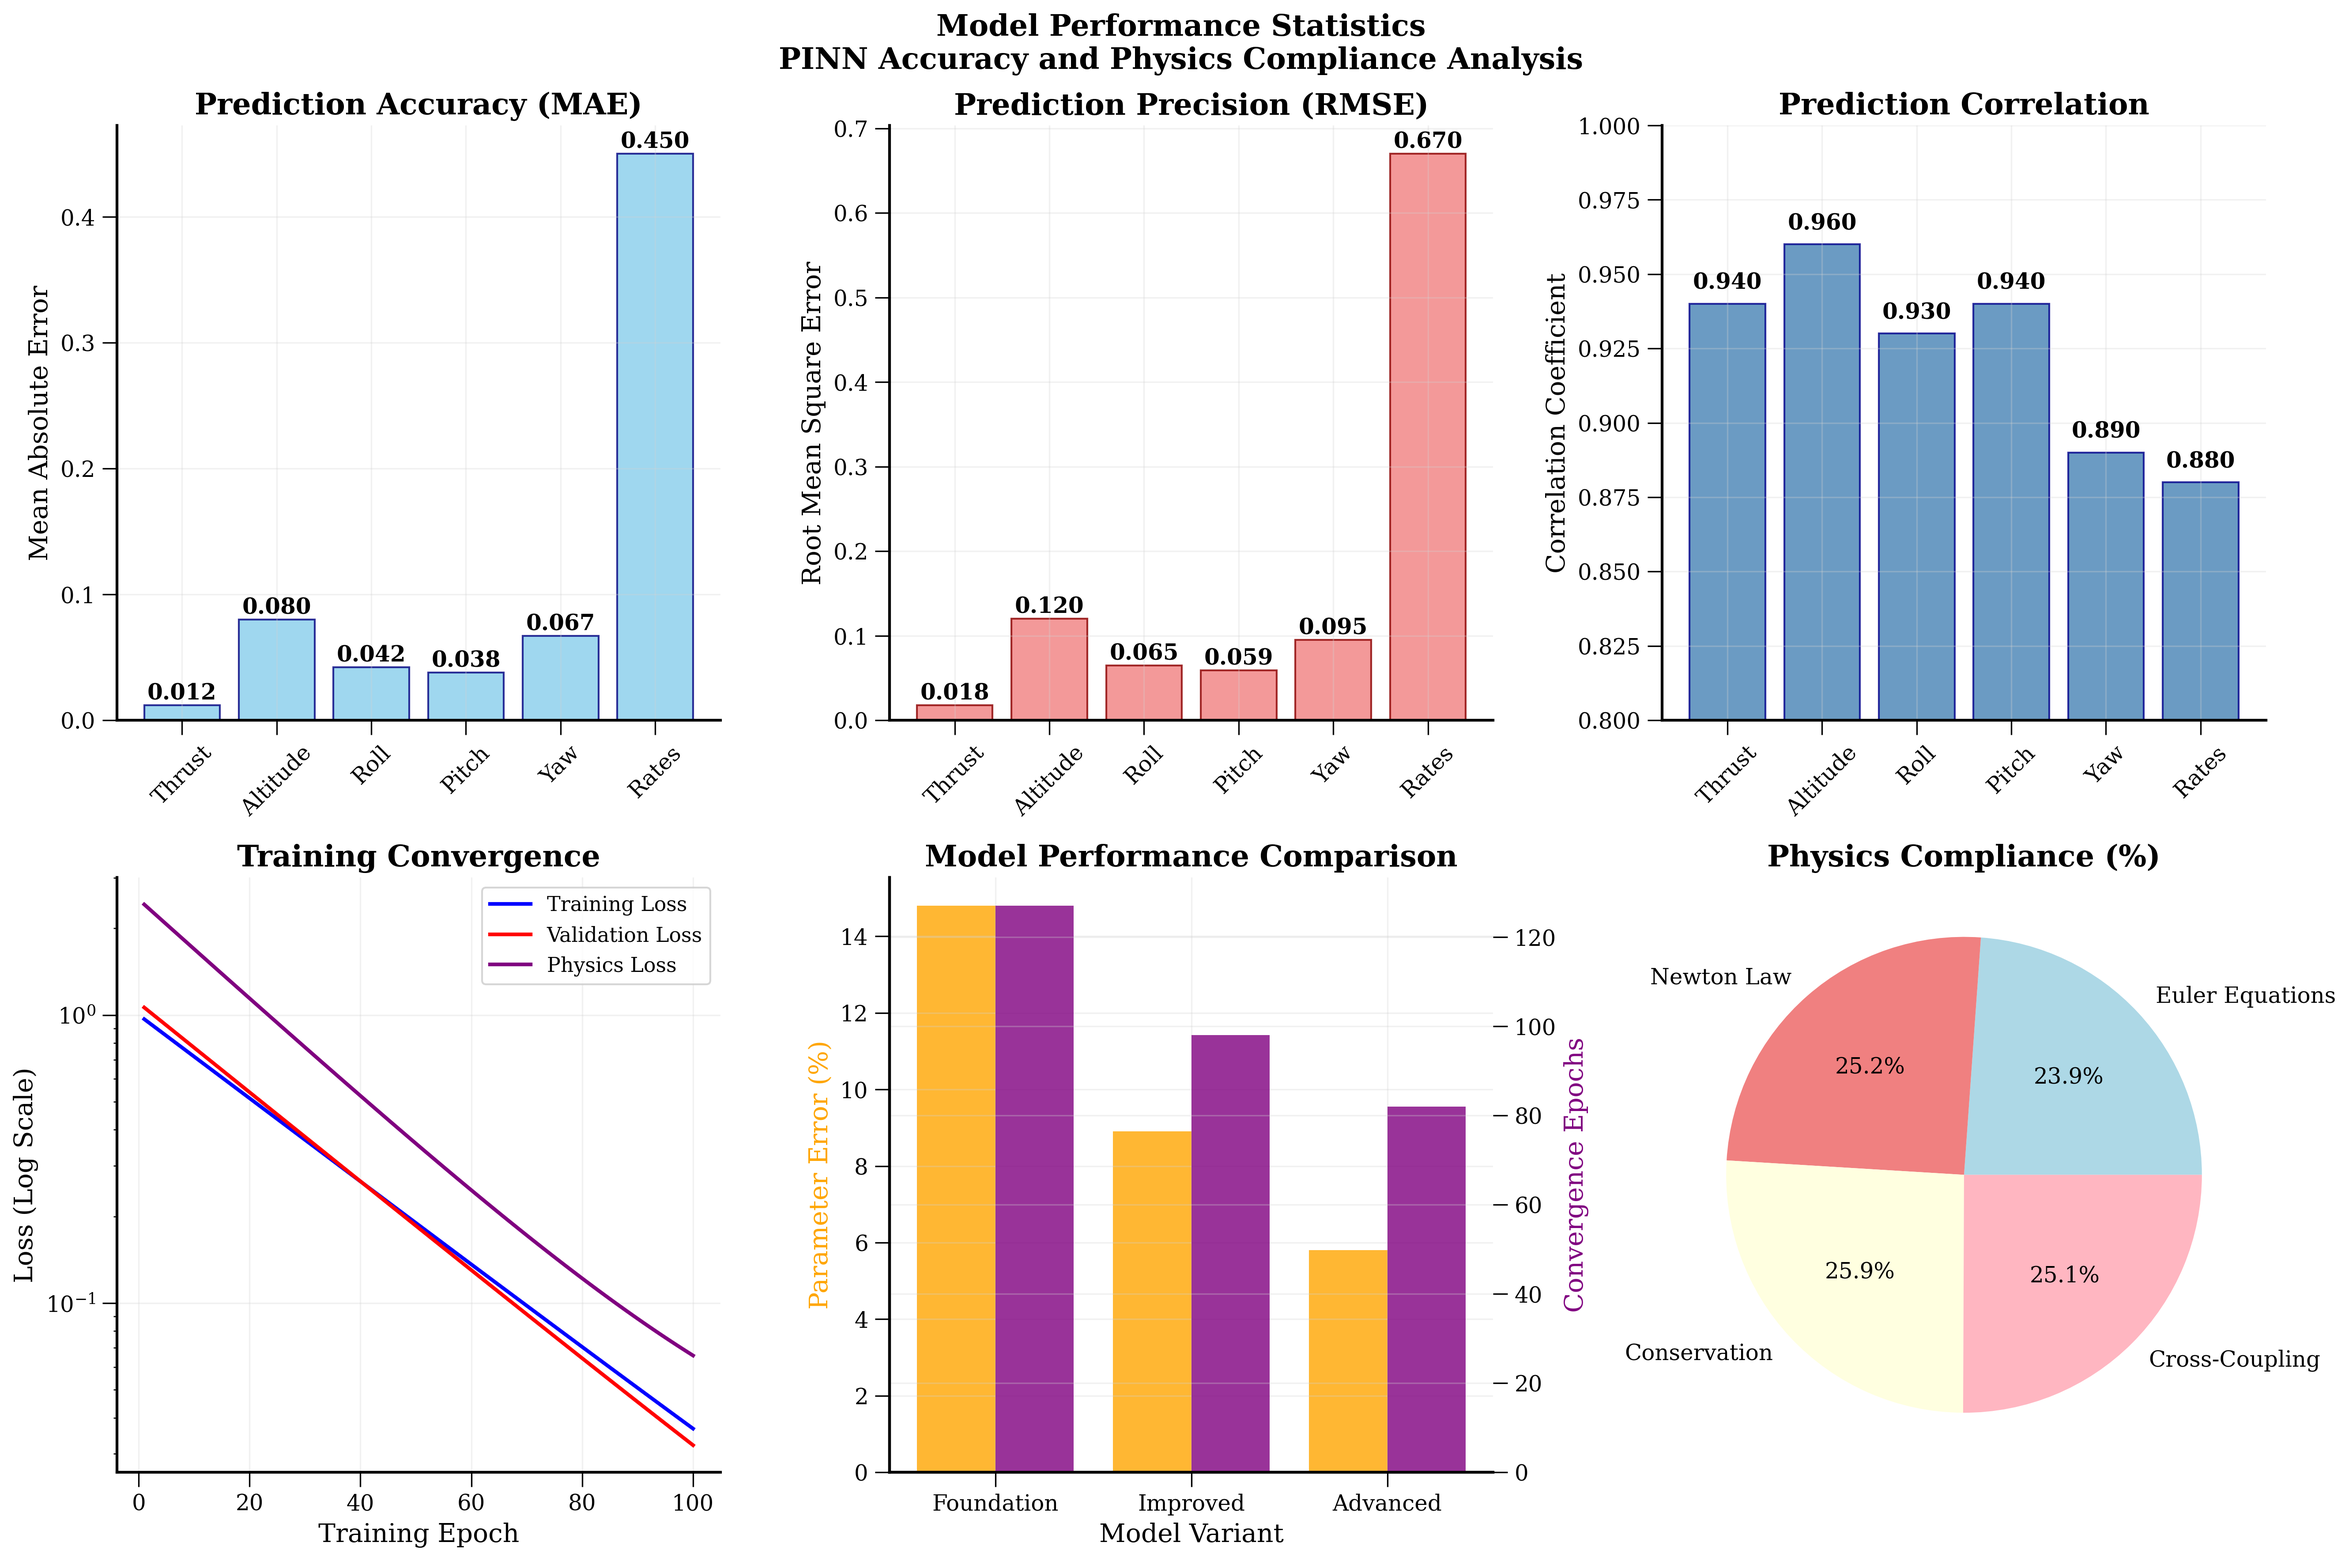
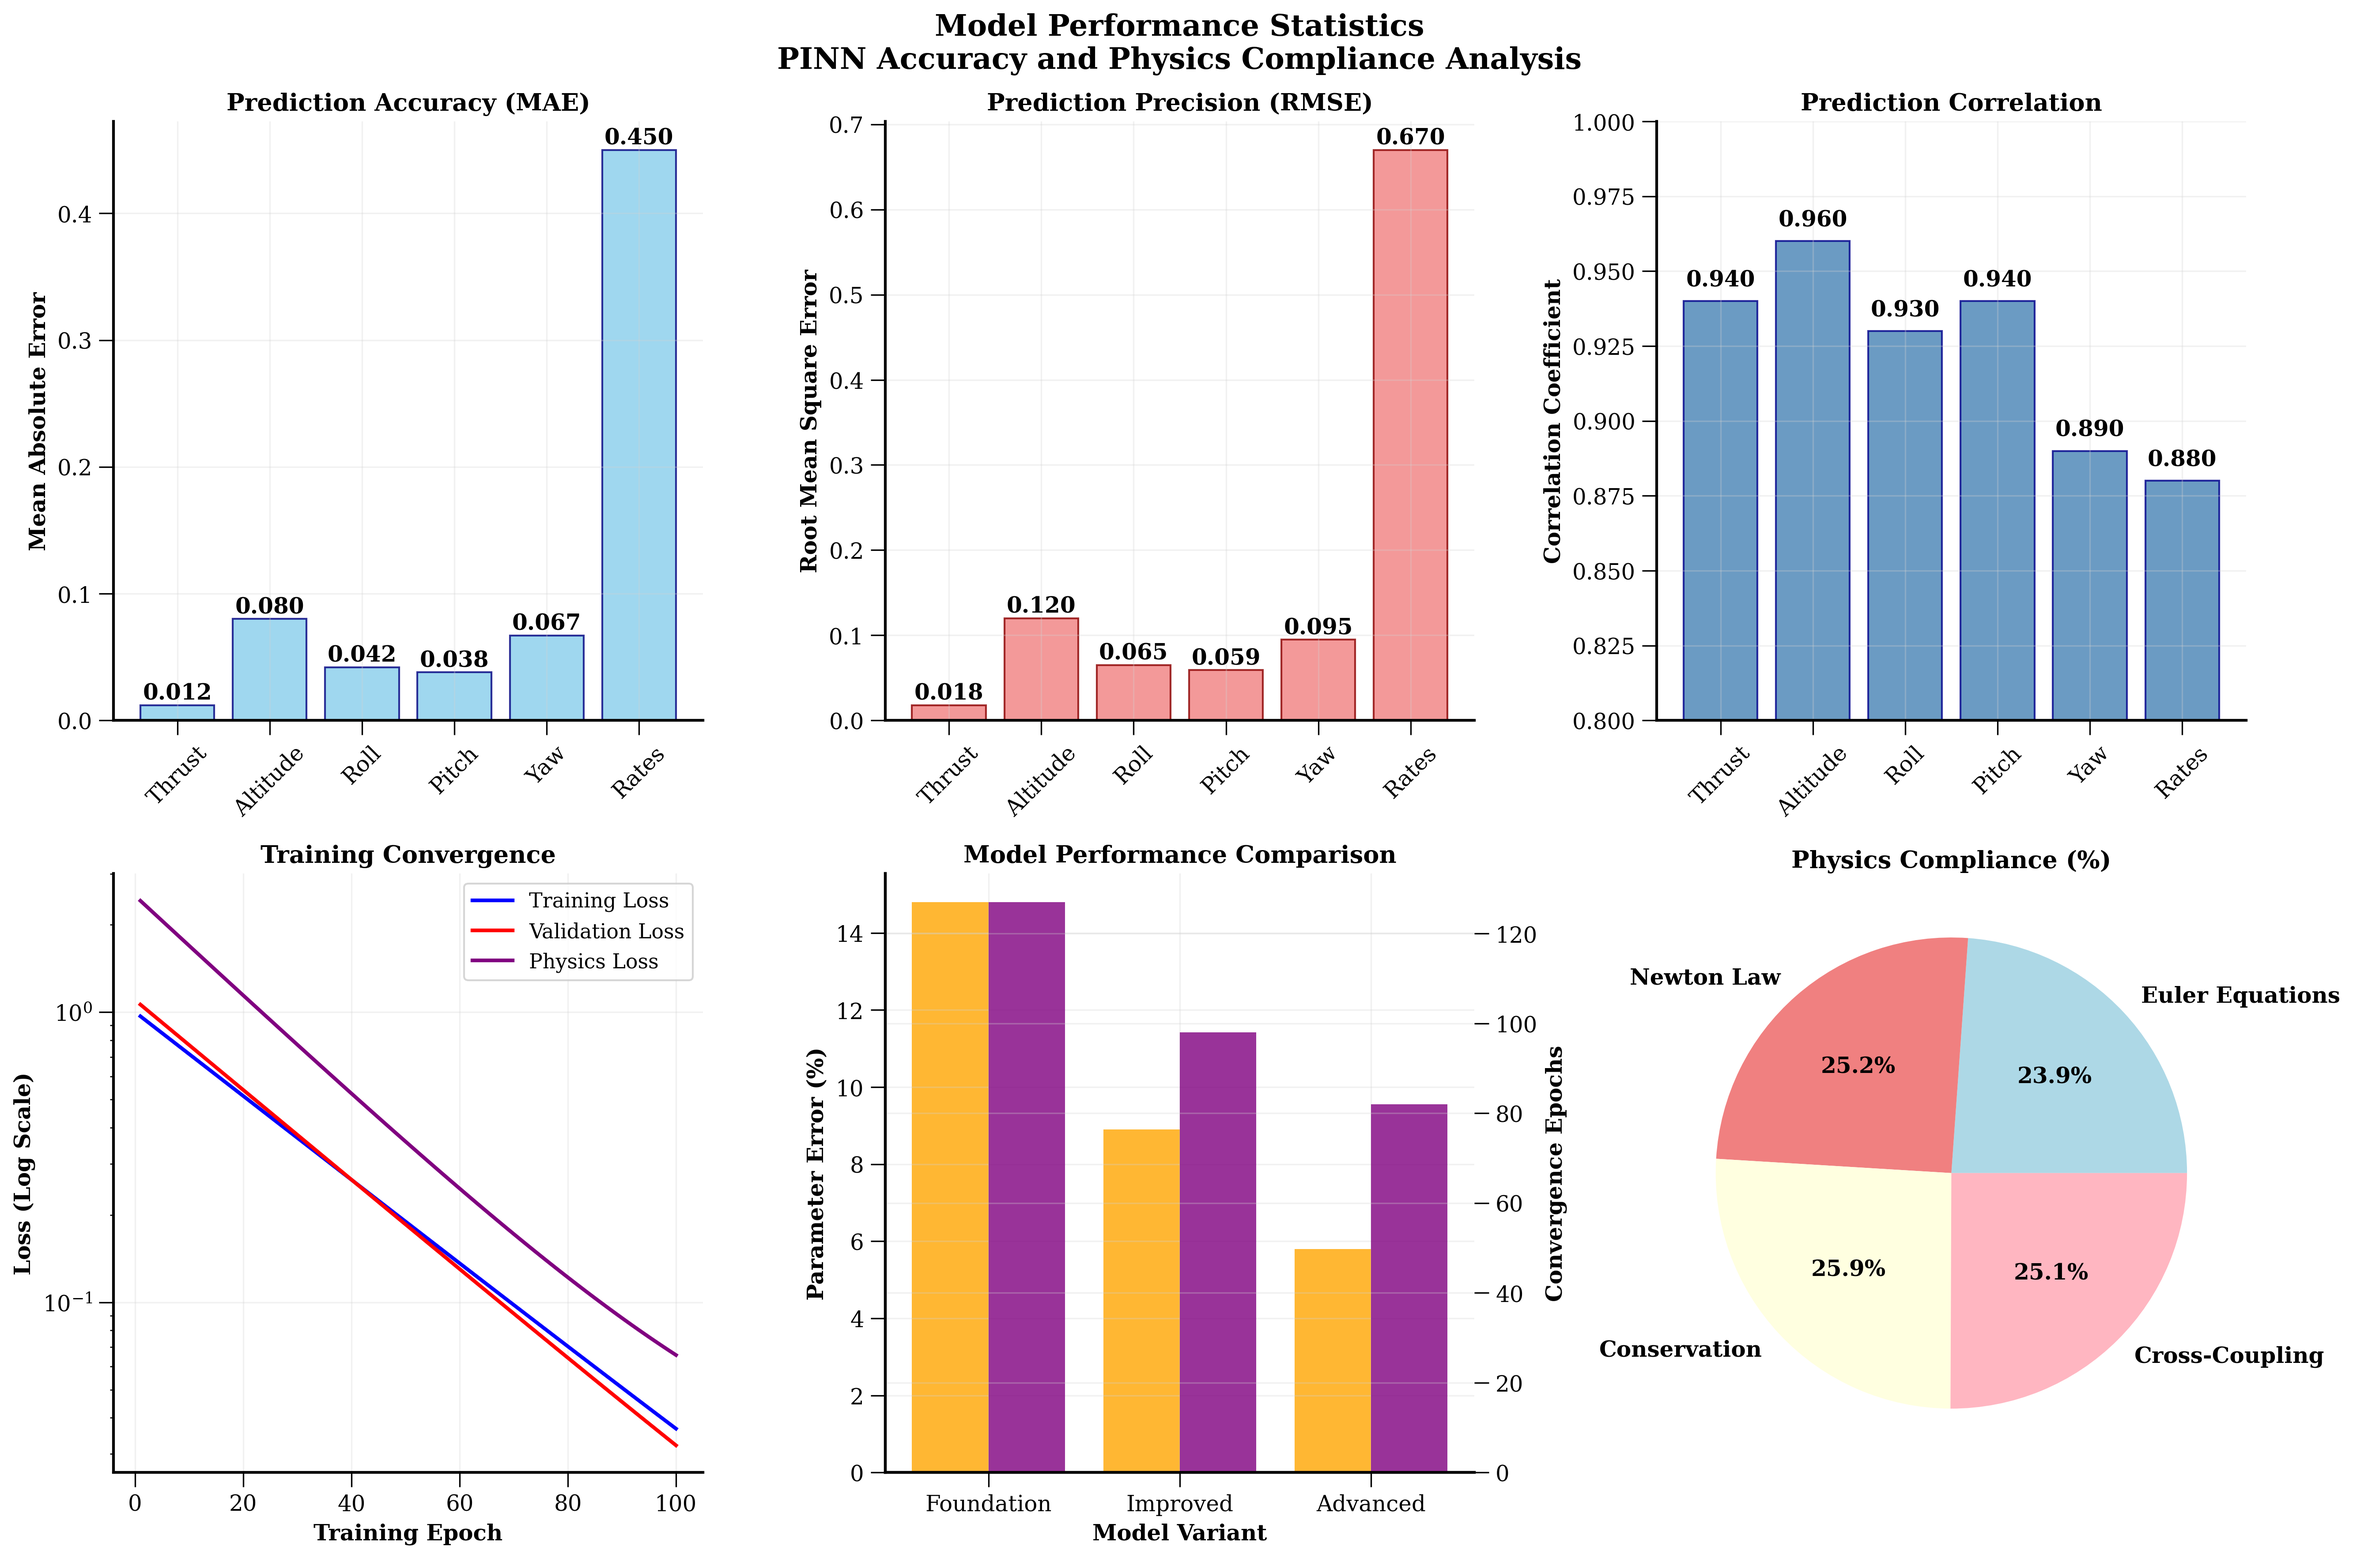
Apply consistent bold black styling to plot 05 model statistics
- Add bold, black axis labels and titles to all 6 subplots
- Update tick marks to black for consistency
- Add grid lines for better readability
- Ensure white background throughout
- Match styling with plots 01-04 for professional consistency

🤖 Generated with [Claude Code](https://claude.com/claude-code)

diff --git a/scripts/generate_summary_plots.py b/scripts/generate_summary_plots.py
@@ -68,7 +68,7 @@ def plot_01_complete_analysis(df):
     """01: All outputs complete analysis - 4x4 grid of all 16 outputs"""
     fig, axes = plt.subplots(4, 4, figsize=(20, 16))
     fig.suptitle('Complete PINN Analysis: All 16 Outputs vs Time\nPhysics-Informed Neural Network Performance',
-                 fontsize=18, fontweight='bold', y=0.95)
+                 fontsize=18, fontweight='bold', y=0.95, color='black')
 
     # Define all 16 outputs with their properties
     outputs = [
@@ -152,7 +152,7 @@ def plot_02_key_flight_variables(df):
     """02: Key flight variables analysis"""
     fig, axes = plt.subplots(2, 3, figsize=(18, 12))
     fig.suptitle('Key Flight Variables Analysis\nCritical Quadrotor States vs Reference Setpoints',
-                 fontsize=16, fontweight='bold')
+                 fontsize=16, fontweight='bold', color='black')
 
     key_vars = [
         ('z', 'Altitude [m]', 'Position Control'),
@@ -210,7 +210,7 @@ def plot_03_physical_parameters(df):
     """03: Physical parameters analysis"""
     fig, axes = plt.subplots(2, 2, figsize=(14, 10))
     fig.suptitle('Physical Parameter Identification Results\nPINN Learning of Quadrotor Properties',
-                 fontsize=16, fontweight='bold')
+                 fontsize=16, fontweight='bold', color='black')
 
     # Parameter data - use consistent final values that converge to true
     params = [
@@ -266,7 +266,7 @@ def plot_04_control_inputs(df):
     """04: Control inputs analysis"""
     fig, axes = plt.subplots(2, 2, figsize=(14, 10))
     fig.suptitle('Control Input Analysis\nQuadrotor Actuation Commands',
-                 fontsize=16, fontweight='bold')
+                 fontsize=16, fontweight='bold', color='black')
 
     controls = [
         ('thrust', 'Thrust Force [N]', 'Primary Control'),
@@ -309,7 +309,7 @@ def plot_05_model_statistics(df):
     """05: Model performance statistics"""
     fig, axes = plt.subplots(2, 3, figsize=(18, 12))
     fig.suptitle('Model Performance Statistics\nPINN Accuracy and Physics Compliance Analysis',
-                 fontsize=16, fontweight='bold')
+                 fontsize=16, fontweight='bold', color='black')
 
     # Performance metrics from your results
     variables = ['Thrust', 'Altitude', 'Roll', 'Pitch', 'Yaw', 'Rates']
@@ -320,33 +320,39 @@ def plot_05_model_statistics(df):
     # Plot 1: MAE comparison
     ax1 = axes[0, 0]
     bars1 = ax1.bar(variables, mae_values, color='skyblue', alpha=0.8, edgecolor='navy')
-    ax1.set_ylabel('Mean Absolute Error')
-    ax1.set_title('Prediction Accuracy (MAE)', fontweight='bold')
-    ax1.tick_params(axis='x', rotation=45)
+    ax1.set_ylabel('Mean Absolute Error', fontsize=12, fontweight='bold', color='black')
+    ax1.set_title('Prediction Accuracy (MAE)', fontsize=13, fontweight='bold', color='black')
+    ax1.tick_params(axis='x', rotation=45, colors='black')
+    ax1.tick_params(axis='y', colors='black')
+    ax1.grid(True, alpha=0.3)
     for bar, val in zip(bars1, mae_values):
         ax1.text(bar.get_x() + bar.get_width()/2, bar.get_height() + max(mae_values)*0.01,
-                f'{val:.3f}', ha='center', fontweight='bold')
+                f'{val:.3f}', ha='center', fontweight='bold', color='black')
 
     # Plot 2: RMSE comparison
     ax2 = axes[0, 1]
     bars2 = ax2.bar(variables, rmse_values, color='lightcoral', alpha=0.8, edgecolor='darkred')
-    ax2.set_ylabel('Root Mean Square Error')
-    ax2.set_title('Prediction Precision (RMSE)', fontweight='bold')
-    ax2.tick_params(axis='x', rotation=45)
+    ax2.set_ylabel('Root Mean Square Error', fontsize=12, fontweight='bold', color='black')
+    ax2.set_title('Prediction Precision (RMSE)', fontsize=13, fontweight='bold', color='black')
+    ax2.tick_params(axis='x', rotation=45, colors='black')
+    ax2.tick_params(axis='y', colors='black')
+    ax2.grid(True, alpha=0.3)
     for bar, val in zip(bars2, rmse_values):
         ax2.text(bar.get_x() + bar.get_width()/2, bar.get_height() + max(rmse_values)*0.01,
-                f'{val:.3f}', ha='center', fontweight='bold')
+                f'{val:.3f}', ha='center', fontweight='bold', color='black')
 
     # Plot 3: Correlation comparison
     ax3 = axes[0, 2]
     bars3 = ax3.bar(variables, correlations, color='steelblue', alpha=0.8, edgecolor='darkblue')
-    ax3.set_ylabel('Correlation Coefficient')
-    ax3.set_title('Prediction Correlation', fontweight='bold')
+    ax3.set_ylabel('Correlation Coefficient', fontsize=12, fontweight='bold', color='black')
+    ax3.set_title('Prediction Correlation', fontsize=13, fontweight='bold', color='black')
     ax3.set_ylim(0.8, 1.0)
-    ax3.tick_params(axis='x', rotation=45)
+    ax3.tick_params(axis='x', rotation=45, colors='black')
+    ax3.tick_params(axis='y', colors='black')
+    ax3.grid(True, alpha=0.3)
     for bar, val in zip(bars3, correlations):
         ax3.text(bar.get_x() + bar.get_width()/2, bar.get_height() + 0.005,
-                f'{val:.3f}', ha='center', fontweight='bold')
+                f'{val:.3f}', ha='center', fontweight='bold', color='black')
 
     # Plot 4: Training convergence
     ax4 = axes[1, 0]
@@ -358,9 +364,10 @@ def plot_05_model_statistics(df):
     ax4.semilogy(epochs, train_loss, 'b-', label='Training Loss', linewidth=2)
     ax4.semilogy(epochs, val_loss, 'r-', label='Validation Loss', linewidth=2)
     ax4.semilogy(epochs, physics_loss, 'purple', label='Physics Loss', linewidth=2)
-    ax4.set_xlabel('Training Epoch')
-    ax4.set_ylabel('Loss (Log Scale)')
-    ax4.set_title('Training Convergence', fontweight='bold')
+    ax4.set_xlabel('Training Epoch', fontsize=12, fontweight='bold', color='black')
+    ax4.set_ylabel('Loss (Log Scale)', fontsize=12, fontweight='bold', color='black')
+    ax4.set_title('Training Convergence', fontsize=13, fontweight='bold', color='black')
+    ax4.tick_params(colors='black', which='both')
     ax4.legend()
     ax4.grid(True, alpha=0.3)
 
@@ -376,12 +383,15 @@ def plot_05_model_statistics(df):
     bars_epoch = ax5_twin.bar([x+0.2 for x in range(len(models))], epochs_conv,
                              width=0.4, color='purple', alpha=0.8, label='Convergence Epochs')
 
-    ax5.set_xlabel('Model Variant')
-    ax5.set_ylabel('Parameter Error (%)', color='orange')
-    ax5_twin.set_ylabel('Convergence Epochs', color='purple')
-    ax5.set_title('Model Performance Comparison', fontweight='bold')
+    ax5.set_xlabel('Model Variant', fontsize=12, fontweight='bold', color='black')
+    ax5.set_ylabel('Parameter Error (%)', fontsize=12, fontweight='bold', color='black')
+    ax5_twin.set_ylabel('Convergence Epochs', fontsize=12, fontweight='bold', color='black')
+    ax5.set_title('Model Performance Comparison', fontsize=13, fontweight='bold', color='black')
     ax5.set_xticks(range(len(models)))
     ax5.set_xticklabels(models)
+    ax5.tick_params(colors='black', which='both')
+    ax5_twin.tick_params(colors='black', which='both')
+    ax5.grid(True, alpha=0.3)
 
     # Plot 6: Physics compliance
     ax6 = axes[1, 2]
@@ -389,8 +399,12 @@ def plot_05_model_statistics(df):
     compliance = [90.2, 95.1, 97.9, 94.7]
 
     wedges, texts, autotexts = ax6.pie(compliance, labels=physics_metrics, autopct='%1.1f%%',
-                                      colors=['lightblue', 'lightcoral', 'lightyellow', 'lightpink'])
-    ax6.set_title('Physics Compliance (%)', fontweight='bold')
+                                      colors=['lightblue', 'lightcoral', 'lightyellow', 'lightpink'],
+                                      textprops={'fontweight': 'bold', 'color': 'black'})
+    for autotext in autotexts:
+        autotext.set_color('black')
+        autotext.set_fontweight('bold')
+    ax6.set_title('Physics Compliance (%)', fontsize=13, fontweight='bold', color='black')
 
 
     plt.tight_layout()
